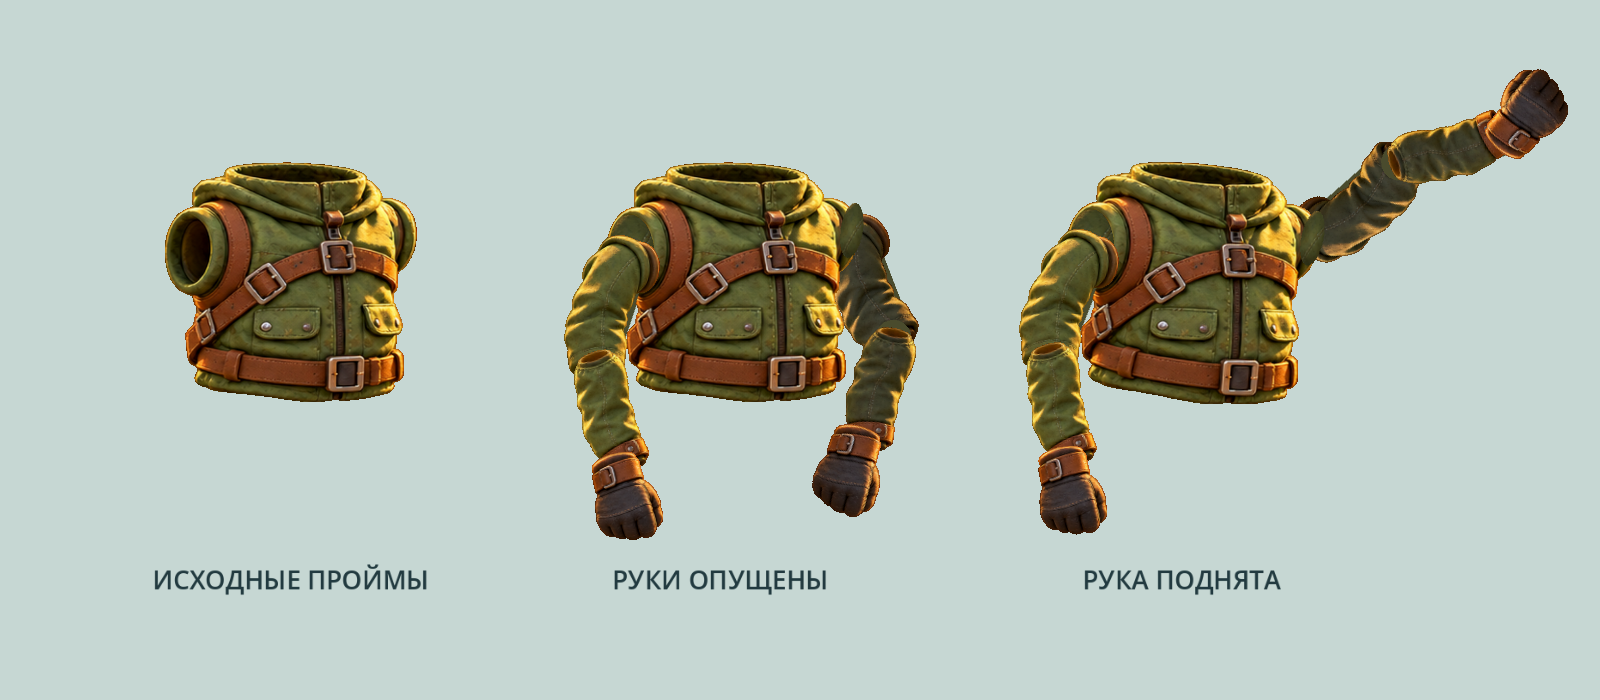
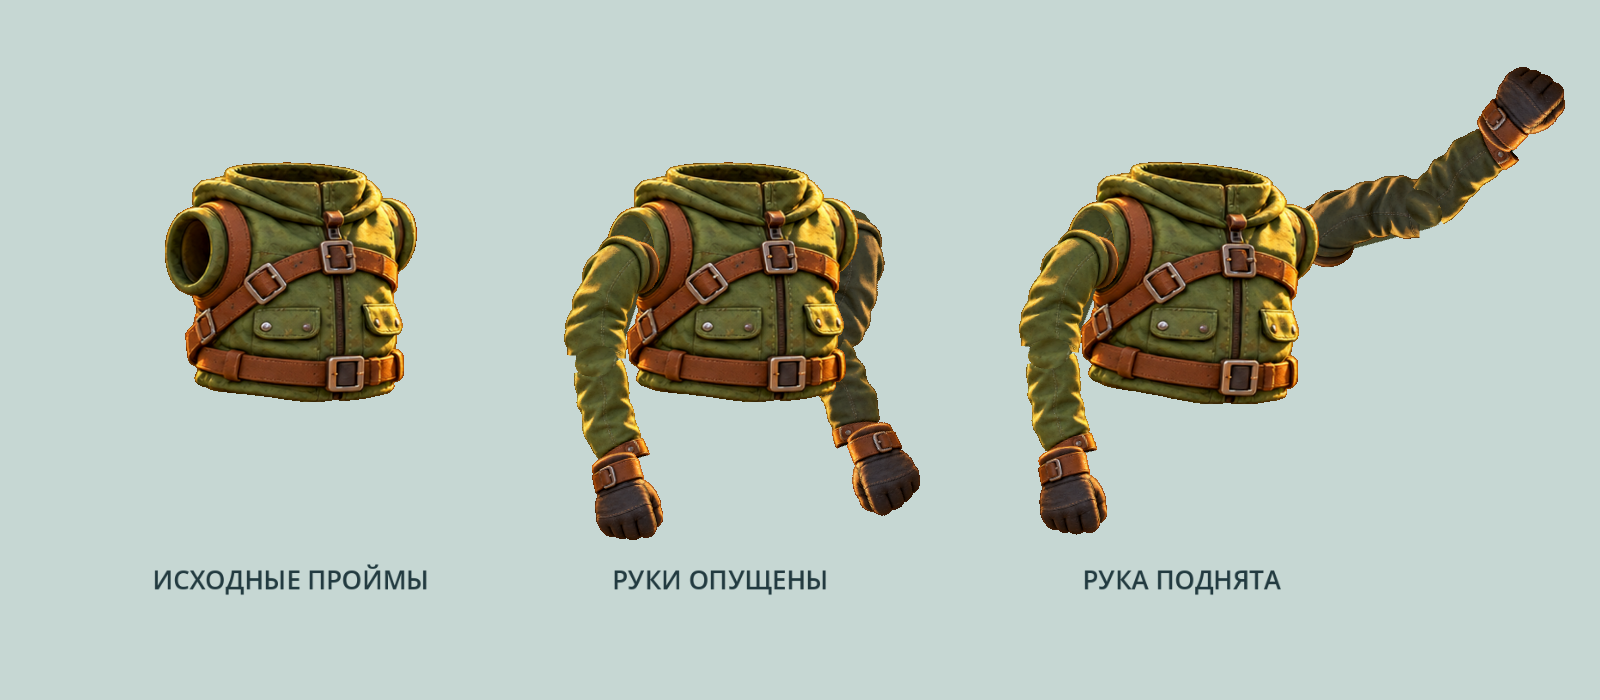
Fix rear arm flexion and sleeve orientation

diff --git a/07_prototype_status.md b/07_prototype_status.md
@@ -1,6 +1,10 @@
-# Last Hook — статус версии 0.10.4
+# Last Hook — статус версии 0.10.5
 
 Дата: 9 октября 2026 года. Движок Godot 4.7.2, Windows x64 и Android ARM64.
+
+## Изменения 0.10.5
+
+Исправлена сторона сгиба заднего локтя и зеркальная ориентация текстур задней руки. Плечо и предплечье идут за торсом без скачка по глубине. Убрана передняя накладка заднего плеча. Открытые торцы рукавов обрезаны областями AtlasTexture, стыки закрыты тканью из исходной текстуры. Добавлена проверка стороны сгиба локтя для пяти направлений зацепа; сравнение с 0.10.4 — `docs/screenshots/rear-arm.png`.
 
 ## Изменения 0.10.4
 
@@ -46,14 +50,14 @@
 
 ## Проверки и сборки
 
-**257 проверок прошли:** 63 правил, 103 интеграции, 32 генерации и 59 адаптации. Сборочный скрипт выполняет все четыре набора до экспорта.
+**258 проверок прошли:** 63 правил, 103 интеграции, 32 генерации и 60 адаптации. Сборочный скрипт выполняет все четыре набора до экспорта.
 
 - Покупки наконечников, точные цены, отказ при нехватке золота, предел три, загрузка и перенос старых профилей.
 - Реальное преимущество второго и третьего наконечника на близком промахе; попадание базовым крюком по льду и кристаллу.
 - Пять размеров окна: 486×864, 432×960, 800×800, 1280×800, 1600×720. Проверены заполнение окна, границы лобби, проекция прицела, клики после изменения размера, защита рюкзака от выстрела, пауза и число зубцов в полёте/на канате.
 - Полное восхождение ботом на трёх seed с базовым оснащением, а также со средним и максимальным. Поражение за экраном, одноразовые опоры и восстановление попыток проходят прежние проверки.
 - Визуально проверены портретное, вытянутое, квадратное и широкое окна, лобби, игровой экран и результат. Кадры из движка находятся в `docs/screenshots/`.
-- `Builds/Windows/LastHook.exe`: версия 0.10.4. `Builds/Android/LastHook-debug.apk`: версия 0.10.4, versionCode 14. APK выровнен, подписан прежним тестовым ключом и проверен сборочным скриптом.
+- `Builds/Windows/LastHook.exe`: версия 0.10.5. `Builds/Android/LastHook-debug.apk`: версия 0.10.5, versionCode 15. APK выровнен, подписан прежним тестовым ключом и проверен сборочным скриптом.
 
 Файлы отчётов — в `docs/validation/`. Локальные журналы и тестовые профили находятся в `artifacts/`, исключённом из Git.
 

diff --git a/docs/MODELS.md b/docs/MODELS.md
@@ -1,6 +1,6 @@
 # Персонаж, верёвка и крюк
 
-Версия 0.10.4 использует оригинальные изображения из `game/assets/art/modular-pack-v1/`. Исходный набор целиком хранится в Git; окружение из него пока не подменяет процедурную гору.
+Версия 0.10.5 использует оригинальные изображения из `game/assets/art/modular-pack-v1/`. Исходный набор целиком хранится в Git; окружение из него пока не подменяет процедурную гору.
 
 ## Персонаж
 
@@ -13,6 +13,8 @@
 В 0.10.3 плечи и бёдра размещаются через UV-точки соответствующих изображений корпуса, с учётом масштаба Sprite3D. Корни находятся внутри непрозрачного рисунка и глубже корпуса. Предплечье выходит перед курткой; верх рукавов и штанин перекрыт одеждой. Капсулы под текстурами закрывают просветы у открытых краёв деталей, их передняя поверхность не выступает над рисунком. В покое кисти располагаются под плечами, а не разводятся в стороны; это проверяется отдельно. Четыре регрессии проверяют плечи и бёдра по альфа-каналу реальных изображений с запасом перекрытия.
 
 В 0.10.4 исправлена ориентация рук относительно исходного арта: ближняя рука слева, дальняя справа. Центры пройм в области торса 270×287 — (31,108) и (259,83). Ближний рукав расположен перед торсом, внутри проймы есть эллиптическая вставка ткани из исходной текстуры, которая сохраняет заполнение отверстия при вращении руки. Дальний рукав выходит из противоположной проймы. Проверки плеч теперь сравнивают их с центрами нарисованных отверстий, а не с произвольной непрозрачной областью куртки.
+
+В 0.10.5 задняя рука использует противоположную ветвь решения локтя: локоть находится со стороны сгиба относительно линии плечо—кисть. Текстуры задних рукава, предплечья и перчатки зеркалятся вокруг оси кости с пересчётом точек крепления. Цепочка задней руки остаётся за торсом, без прежнего скачка глубины предплечья. Передняя накладка заднего плеча удалена. Открытые торцы рукавов скрыты обрезкой AtlasTexture; тканевые вставки закрывают стыки локтей. Регрессия проверяет сторону сгиба в пяти направлениях и при зеркальном развороте.
 
 ## Канат
 

diff --git a/README.md b/README.md
@@ -2,7 +2,7 @@
 
 Игра для Android и Windows на Godot 4.7.2. Цепляйся крюком, раскачивайся и перелетай между опорами. Большинство опор исчезает после отцепления; проигрыш наступает, когда герой полностью падает ниже экрана.
 
-Текущая версия: **0.10.4**.
+Текущая версия: **0.10.5**.
 
 ## Играть
 
@@ -26,6 +26,13 @@
 | Удержать ячейку рюкзака | Выбросить предмет |
 
 На телефоне первый палец отвечает за прицел и раскачку. Второй палец: движение вверх/вниз меняет канат, короткий тап отпускает его.
+
+## Что изменилось в 0.10.5
+
+- Исправлен сгиб заднего локтя; детали рукава и перчатка развёрнуты для задней руки.
+- Заднее плечо остаётся за торсом. Открытые торцы деталей скрыты в стыках локтей.
+
+![Задняя рука до и после исправления](docs/screenshots/rear-arm.png)
 
 ## Что изменилось в 0.10.4
 
